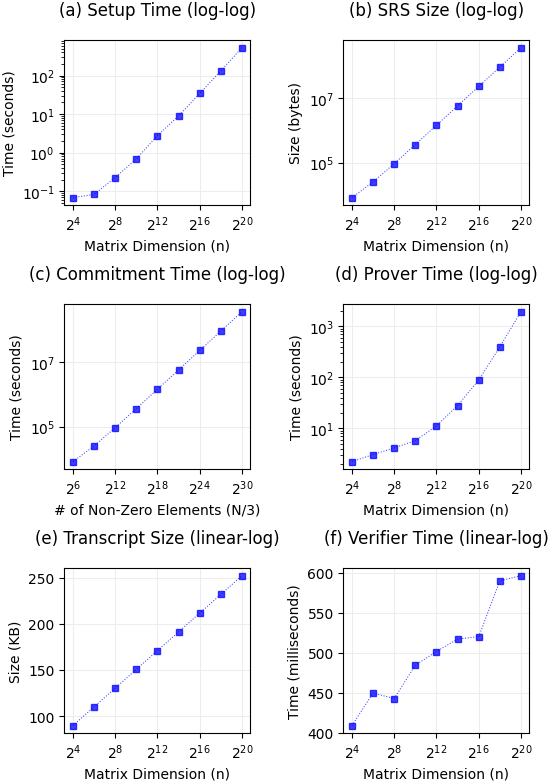
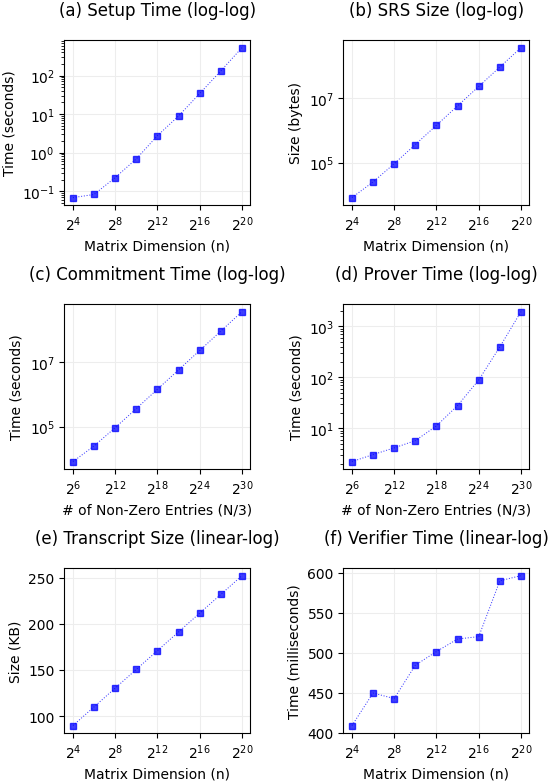
Update the python figure

Changed region(s): [[0.6182, 0.613, 0.9582, 0.6743], [0.0927, 0.6437, 0.4636, 0.6743]]

diff --git a/python/fig1_reshape.py b/python/fig1_reshape.py
@@ -131,7 +131,7 @@ def plot_scatter():
     ax2.grid(True, which="major", ls="-", color='0.93')
     ax2.set_xticks(x_tick, x_tick_label)
 
-    ax3.set_xlabel('# of Non-Zero Elements (N/3)', size = LABEL_SIZE_SINGLE_COLUMN,
+    ax3.set_xlabel('# of Non-Zero Entries (N/3)', size = LABEL_SIZE_SINGLE_COLUMN,
                    labelpad=4)
     ax3.set_ylabel('Time (seconds)', size = LABEL_SIZE_SINGLE_COLUMN)  
     ax3.loglog(capital_n_series, srs_size, 
@@ -141,15 +141,15 @@ def plot_scatter():
     ax3.grid(True, which="major", ls="-", color='0.93')
     ax3.set_xticks(x_capital_tick, x_capital_tick_label)
 
-    ax4.set_xlabel('Matrix Dimension (n)', size = LABEL_SIZE_SINGLE_COLUMN,
+    ax4.set_xlabel('# of Non-Zero Entries (N/3)', size = LABEL_SIZE_SINGLE_COLUMN,
                    labelpad=4)
     ax4.set_ylabel('Time (seconds)', size = LABEL_SIZE_SINGLE_COLUMN)  
-    ax4.loglog(n_series, prover_time, 
+    ax4.loglog(capital_n_series, prover_time, 
                marker = MARKER_STYLE, markersize = MARKER_SIZE,
                  color = COLOR, alpha = 0.75, 
                  linestyle = LINE_STYLE, linewidth = LINE_WIDTH)
     ax4.grid(True, which="major", ls="-", color='0.93')
-    ax4.set_xticks(x_tick, x_tick_label)
+    ax4.set_xticks(x_capital_tick, x_capital_tick_label)
     
     ax5.set_xlabel('Matrix Dimension (n)', size = LABEL_SIZE_SINGLE_COLUMN,
                    labelpad=4)
